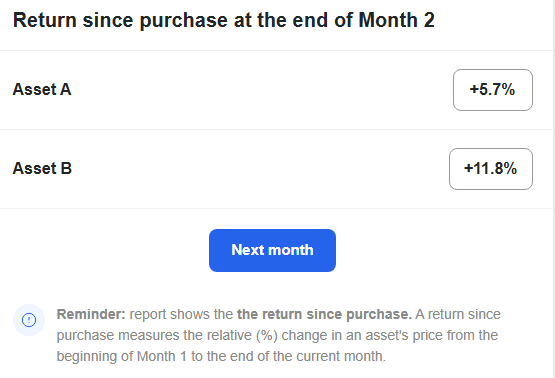
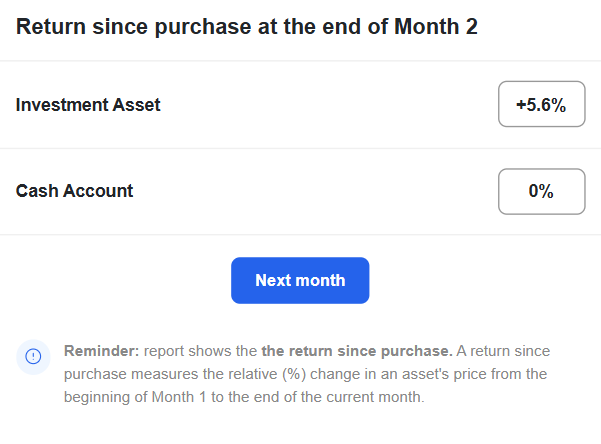
new png pages

diff --git a/ME/Instructions2.html b/ME/Instructions2.html
@@ -116,29 +116,21 @@ Bonus payment information
 
 {% if var in [1,2,9,10] %}
 <p>
-    After seeing the 12 months with monthly returns of Asset A and Asset B, 
-    you will be asked to sell one of the assets. The asset you sell will be sold at the end of Month 12, and the other asset will be held for another month (Month 13).
-    
+    After seeing the 12 monthly returns of the investment asset, you will decide whether to keep the asset or sell it and move to the £100 cash account. Whatever you keep invested is held for another month (Month 13).
 </p>
 
 {% elif var in [3,4,11,12] %}
 <p>
-    After seeing the 12 months with monthly returns of Asset A and Asset B, both assets are liquidated at the end of Month 12.
-    You will be asked to repurchase (i.e., buy again) one of the assets. That asset will be held for another month (Month 13).
+    After seeing the 12 monthly returns of the investment asset, your portfolio is liquidated at the end of Month 12. You will decide whether to repurchase the asset or keep your £100 in the cash account. Whatever you invest is held for another month (Month 13).
 </p>
 {% elif var in [5,6,13,14] %}
 <p>
-    After seeing the 12 months with returns since purchase of Asset A and Asset B, 
-    you will be asked to sell one of the assets. The asset you sell will be sold at the end of Month 12, and the other asset will be held for another month (Month 13).
+    After seeing the 12 returns since purchase of the investment asset, you will decide whether to keep the asset or sell it and move to the £100 cash account. Whatever you keep invested is held for another month (Month 13).
 </p>
-
 {% elif var in [7,8,15,16]  %}
-<p> 
-    After seeing the 12 months with returns since purchase of Asset A and Asset B, both assets are liquidated at the end of Month 12.
-    You will be asked to repurchase (i.e., buy again) one of the assets. That asset will be held for another month (Month 13).
+<p>
+    After seeing the 12 returns since purchase of the investment asset, your portfolio is liquidated at the end of Month 12. You will decide whether to repurchase the asset or keep your £100 in the cash account. Whatever you invest is held for another month (Month 13).
 </p>
-
-
 {% endif %}
 
 {% if var in [1, 3, 5, 7, 9, 11, 13, 15] %}
@@ -149,160 +141,87 @@ Bonus payment information
 
 {% elif var in [2, 4, 6, 8, 10, 12, 14, 16] %}
 <p>
-    At the end of the study, you will receive a bonus payment that depends on one of your return predictions for Month 13 from one of the rounds. The round and return prediction selected for your bonus payment will be randomly chosen from the eight rounds of the study.
+    At the end of the study, you will receive a bonus payment that depends on your return predictions for Month 13 from one of the rounds. The round selected for your bonus payment will be randomly chosen from the eight rounds of the study.
 </p>    
 
 {% endif %}
 
 
 {% if var in [1,5] %}
-<p>
-Specifically, one monthly return will be simulated for the asset you do not sell (i.e., hold on to) before Month 13. That monthly return will be selected randomly, with equal likelihood, from the 12 monthly returns represented by the performance of the asset you observed previously.</p>
-
+<p>Specifically, if you keep the investment asset, one monthly return is simulated for it before Month 13, selected randomly with equal likelihood from the 12 monthly returns you observed. If you move to cash, your earnings are fixed at risk free 0% interest.</p>
 
 {% elif var in [9,13] %}
-<p>
-Specifically, one monthly return will be simulated for the asset you do not sell (i.e., hold on to) before Month 13.</p>
+<p>Specifically, if you keep the investment asset, one monthly return is simulated for it before Month 13. If you move to cash, your earnings are fixed at risk free 0% interest.</p>
 
 {% elif var in [3,7] %}
-<p>Specifically, one monthly return will be simulated for the asset you repurchase (or buy again) before Month 13. That monthly return will be selected randomly, with equal likelihood, from the 12 monthly returns represented by the performance of the asset you observed previously.</p>
+<p>Specifically, if you repurchase the investment asset, one monthly return is simulated for it before Month 13, selected randomly with equal likelihood from the 12 monthly returns you observed. If you stay in cash, your earnings are fixed at risk free 0% interest.</p>
 
 {% elif var in [11,15] %}
-<p>Specifically, one monthly return will be simulated for the asset you repurchase (or buy again) before Month 13.</p>
-
-
+<p>Specifically, if you repurchase the investment asset, one monthly return is simulated for it before Month 13. If you stay in cash, your earnings are fixed at risk free 0% interest.</p>
 
 {% elif var in [2, 4] %}
-<p>
-Specifically, your return prediction will be compared with the statistically correct expected monthly return of the asset. The expected return is based on the 12 equally-likely monthly returns you observed previously</p>
+<p>Specifically, your return prediction is compared with the statistically correct expected monthly return of the investment asset, based on the 12 equally-likely monthly returns you observed.</p>
 
-{% elif var in [ 6, 8] %}
-<p>
-    Specifically, your return prediction will be compared with the statistically correct expected return of the asset. The expected return is based on the 12 equally-likely monthly returns, implied by the returns since purchase you observed previously.
-</p>
+{% elif var in [6, 8] %}
+<p>Specifically, your return prediction is compared with the statistically correct expected return of the investment asset, based on the 12 equally-likely monthly returns implied by the returns since purchase you observed.</p>
 
 {% elif var in [10, 12, 14, 16] %}
-<p>
-    Specifically, your return prediction will be compared with the statistically correct expected return of the asset. 
-</p>
-
-
+<p>Specifically, your return prediction is compared with the statistically correct expected return of the investment asset.</p>
 {% endif %}
 
 
 
     <br>
-   
+
+
 {% if var in [1,3,5,7,9,11,13,15]%}
 <div class="example-box">
-    {% if var == 1  %}
+    {% if var == 1 %}
     <strong>Example:</strong><br>
-    After 12 months, you decide to sell <strong>Asset A</strong> which means you hold <strong>Asset B</strong>, for Month 13. Month 5 is drawn from the 12-month asset performance history you observed for Asset B. Month 5 showed a monthly return of 10% for Asset B, so that you receive a 10% monthly return for holding on to Asset B in Month 13.<br><br>
-    <div class="example-row" style="text-align: center;">
-        <strong> Asset B’s expected monthly return for Month 13:</strong>
-        <code class="example-value"> 10%</code>
-        
-    <div>
-        <strong>Bonus payment:</strong>
-        <code class="example-value">  £1.0 × (1 + 10%)  = £1.10</code>
-    </div>
-    </div>
-     
-    {% elif var == 5  %}
+    After 12 months, you decide to keep the <strong>investment asset</strong> for Month 13. Month 5 is drawn from the 12-month history you observed. Month 5 showed a monthly return of 10%, so you receive a 10% return in Month 13.<br><br>
+    
+    {% elif var == 5 %}
     <strong>Example:</strong><br>
-    After 12 months, you decide to sell <strong>Asset A</strong> which means you hold <strong>Asset B</strong>, for Month 13. Month 5 is drawn from the 12-month asset performance history you observed for Asset B. Month 5 showed a return since purchase of 21% for Asset B after a return since purchase of 10% in Month 4, implying a 10% monthly return for holding on to Asset B in Month 13 (10% = (1 + 21%) / (1 + 10%) - 1).<br><br>
-    <div class="example-row" style="text-align: center;">
-        <strong> Asset B’s expected monthly return for Month 13:</strong>
-        <code class="example-value"> 10%</code>
-        
-    <div>
-        <strong>Bonus payment:</strong>
-        <code class="example-value">  £1.0 × (1 + 10%)  = £1.10</code>
-    </div>
-        
-    </div>
-
+    After 12 months, you decide to keep the <strong>investment asset</strong> for Month 13. Month 5 is drawn from the 12-month history you observed. Month 5 showed a return since purchase of 21% after 10% in Month 4, implying a 10% monthly return (10% = (1 + 21%) / (1 + 10%) − 1) in Month 13.<br><br>
+    
     {% elif var == 3 %}
     <strong>Example:</strong><br>
-    After 12 months, you decide to repurchase <strong>Asset B</strong> which means you hold <strong>Asset B</strong>, for Month 13. Month 5 is drawn from the 12-month asset performance history you observed for Asset B. Month 5 showed a return since purchase of 10% for Asset B, so that you receive a 10% monthly return for holding on to Asset B in Month 13.<br><br>
-    <div class="example-row" style="text-align: center;">
-        <strong> Asset B’s expected monthly return for Month 13:</strong>
-        <code class="example-value"> 10%</code>
-        
-    <div>
-        <strong>Bonus payment:</strong>
-        <code class="example-value">  £1.0 × (1 + 10%)  = £1.10</code>
-    </div>
-    </div>
-
+    After 12 months, you decide to repurchase the <strong>investment asset</strong> for Month 13. Month 5 is drawn from the 12-month history you observed. Month 5 showed a monthly return of 10%, so you receive a 10% return in Month 13.<br><br>
+    
     {% elif var == 7 %}
     <strong>Example:</strong><br>
-    After 12 months, you decide to repurchase <strong>Asset B</strong> which means you hold <strong>Asset B</strong>, for Month 13. Month 5 is drawn from the 12-month asset performance history you observed for Asset B. Month 5 showed a return since purchase of 21% for Asset B after a return since purchase of 10% in Month 4, implying a 10% monthly return for holding on to Asset B in Month 13 (10% = (1 + 21%) / (1 + 10%) - 1).<br><br>
-    <div class="example-row" style="text-align: center;">
-        <strong> Asset B’s expected monthly return for Month 13:</strong>
-        <code class="example-value"> 10%</code>
-        
-    <div>
-        <strong>Bonus payment:</strong>
-        <code class="example-value">  £1.0 × (1 + 10%)  = £1.10</code>
-    </div>
-    </div>
-
+    After 12 months, you decide to repurchase the <strong>investment asset</strong> for Month 13. Month 5 is drawn from the 12-month history you observed. Month 5 showed a return since purchase of 21% after 10% in Month 4, implying a 10% monthly return (10% = (1 + 21%) / (1 + 10%) − 1) in Month 13.<br><br>
+    
     {% elif var == 9 or var == 13 %}
     <strong>Example:</strong><br>
-    After 12 months, you decide to sell <strong>Asset A</strong> which means you hold <strong>Asset B</strong>, for Month 13. The simulation returns a 10% monthly return for holding on to Asset B in Month 13.<br><br>
-    <div class="example-row" style="text-align: center;">
-        <strong> Asset B’s expected monthly return for Month 13:</strong>
-        <code class="example-value"> 10%</code>
-        
-    <div>
-        <strong>Bonus payment:</strong>
-        <code class="example-value">  £1.0 × (1 + 10%)  = £1.10</code>
-    </div>
-    </div>
-
-    {% elif  var == 11 or var == 15 %}
+    After 12 months, you decide to keep the <strong>investment asset</strong> for Month 13. The simulation returns a 10% monthly return.<br><br>
+    
+    {% elif var == 11 or var == 15 %}
     <strong>Example:</strong><br>
-    After 12 months, you decide to repurchase <strong>Asset B</strong> which means you hold <strong>Asset B</strong>, for Month 13. The simulation returns a 10% monthly return for holding on to Asset B in Month 13.<br><br>
+    After 12 months, you decide to repurchase the <strong>investment asset</strong> for Month 13. The simulation returns a 10% monthly return.<br><br>
+    {% endif %}
+    
     <div class="example-row" style="text-align: center;">
-        <strong> Asset B’s expected monthly return for Month 13:</strong>
-        <code class="example-value"> 10%</code>
-        
+        <strong>investment asset's return for Month 13:</strong>
+        <code class="example-value">10%</code>
     <div>
         <strong>Bonus payment:</strong>
-        <code class="example-value">  £1.0 × (1 + 10%)  = £1.10</code>
+        <code class="example-value">£1.0 × (1 + 10%) = £1.10</code>
     </div>
     </div>
-
-    {% endif %}
-
 </div>
+
 
 {% elif var in [2,4,6,8,10,12,14,16] %}
 <div class="example-box">
-
     <strong>Example:</strong><br>
-
-    One of the two assets (<strong>Asset A</strong> or <strong>Asset B</strong>) is randomly selected.
-
-    Suppose <strong>Asset A</strong> is selected. You are asked to predict the <strong>return in month 13</strong> for Asset A.
-
-    Your prediction is compared with the <strong>statistically correct expected value for the monthly return</strong> for Asset A.
-
-    If the difference between your prediction and the actual return is within <strong>±0.3 percentage points</strong>, you receive a bonus.<br><br>
-
+    You are asked to predict the <strong>return in Month 13</strong> for the <strong>investment asset</strong>. Your prediction is compared with the <strong>statistically correct expected monthly return</strong>. If the difference is within <strong>±0.3 percentage points</strong>, you receive a bonus.<br><br>
     <div class="example-row" style="text-align: center;">
-        <strong> Asset B’s expected monthly return for Month 13:</strong> <strong> <code class="example-value"> 2.8%</code></strong><br>
-
-        <strong>Your prediction:</strong> <strong> <code class="example-value"> 3%</code></strong><br>
-        <strong>Difference:</strong> <strong> <code class="example-value"> 0.2%</code></strong> <code class="example-value">→ within ±0.3% </code><br>
-        <strong>Bonus payment:  <code class="example-value"> £2</code></strong>
-
+        <strong>investment asset's expected monthly return for Month 13:</strong> <code class="example-value">2.8%</code><br>
+        <strong>Your prediction:</strong> <code class="example-value">3%</code><br>
+        <strong>Difference:</strong> <code class="example-value">0.2%</code> <code class="example-value">→ within ±0.3%</code><br>
+        <strong>Bonus payment:</strong> <code class="example-value">£2</code>
     </div>
-
-   
-  
-
 </div>
 {% endif %}
 

diff --git a/ME/Instructions1.html b/ME/Instructions1.html
@@ -97,11 +97,11 @@ Instructions
    
     
     <p style="text-align: justify;">
-      You will invest into two assets, Asset A and Asset B, at the beginning of each round. You will then hold both assets for 12 months, observing their performance at the end of each month, as illustrated in the example below.
+      At the beginning of each round you hold one share of an investment asset plus £100 in a cash account earning 0% interest. You hold the asset for 12 months, observing its performance at the end of each month, as illustrated in the example below.
 
     {% if player.goal_treatment in [1,2,3,4,9,10,11,12]  %}
       <p style="text-align: justify;">
-      The rows show the monthly returns of the two assets at the end of a given month. You will observe the monthly returns for both assets over 12 months, moving from Month 1 to Month 12 by clicking ‘Next month’.
+      The row shows the monthly return of the investment asset at the end of a given month. You will observe its monthly returns over 12 months, moving from Month 1 to Month 12 by clicking 'Next month'.
       </p>
 
       {% if color_treatment == 0 %}
@@ -114,10 +114,10 @@ Instructions
       </div>
       {% endif %}
       
-    {% elif player.goal_treatment in [5,6,7,8,13,14,15,16]  %}
+      {% elif player.goal_treatment in [5,6,7,8,13,14,15,16]  %}
         <p style="text-align: justify;">
-        The rows show the returns since purchase of the two assets at the end of a given month. You will observe the returns since purchase for both assets over 12 months, moving from Month 1 to Month 12 by clicking ‘Next month’.
-        </p> 
+        The row shows the return since purchase of the investment asset at the end of a given month. You will observe its returns since purchase over 12 months, moving from Month 1 to Month 12 by clicking 'Next month'.
+        </p>
 
         {% if color_treatment == 0 %}
         <div class="image-container">
@@ -171,15 +171,14 @@ Instructions
     
     {% if player.goal_treatment in [1,3,5,7,9,11,13,15]  %}
     <p>
-      After observing the performance of both assets for 12 months, at the end of Month 12, you will make an investment decision.
+      After observing the investment asset's performance for 12 months, at the end of Month 12, you will make an investment decision.
     </p>
-
-    </p>On the next screen, you will receive instructions on that investment decision and how it determines your bonus payment.</p>
+    <p>On the next screen, you will receive instructions on that investment decision and how it determines your bonus payment.</p>
     {% elif player.goal_treatment in [2,4,6,8,10,12,14,16]  %}
     <p>
-      After observing the performance of both assets for 12 months, at the end of Month 12, you will make a return prediction.
+      After observing the investment asset's performance for 12 months, at the end of Month 12, you will make a return prediction.
     </p>
-    </p>On the next screen, you will receive instructions on that return prediction and how it determines your bonus payment.</p>
+    <p>On the next screen, you will receive instructions on that return prediction and how it determines your bonus payment.</p>
     {% endif %}
     
     <div class="custom-next-button-container" style="text-align: center;">
